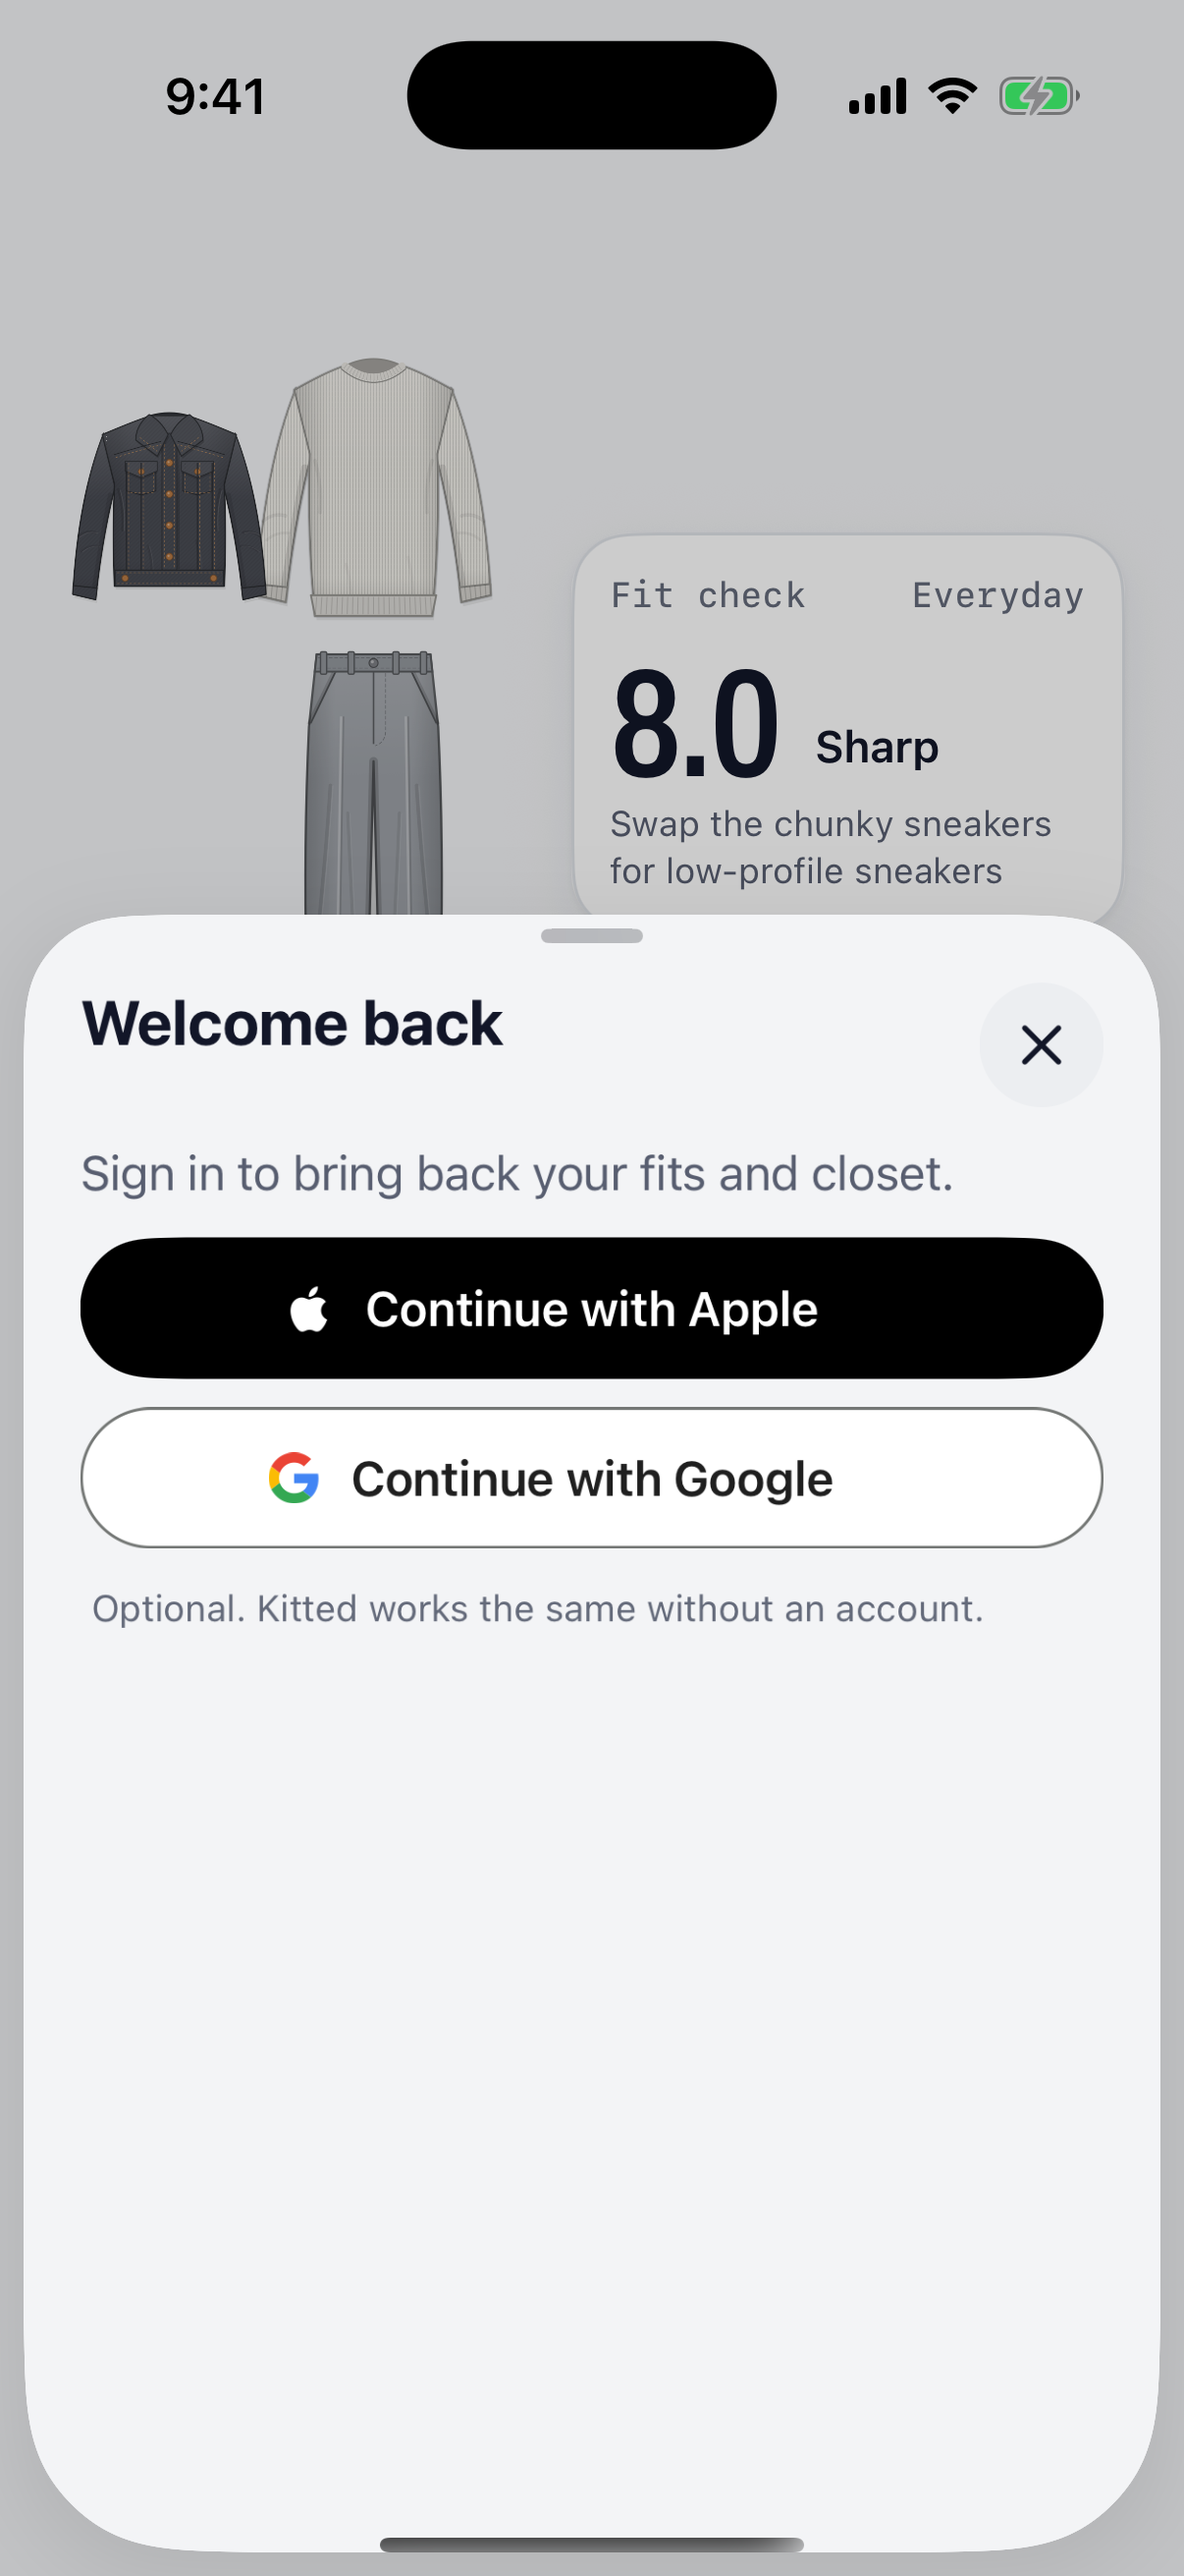
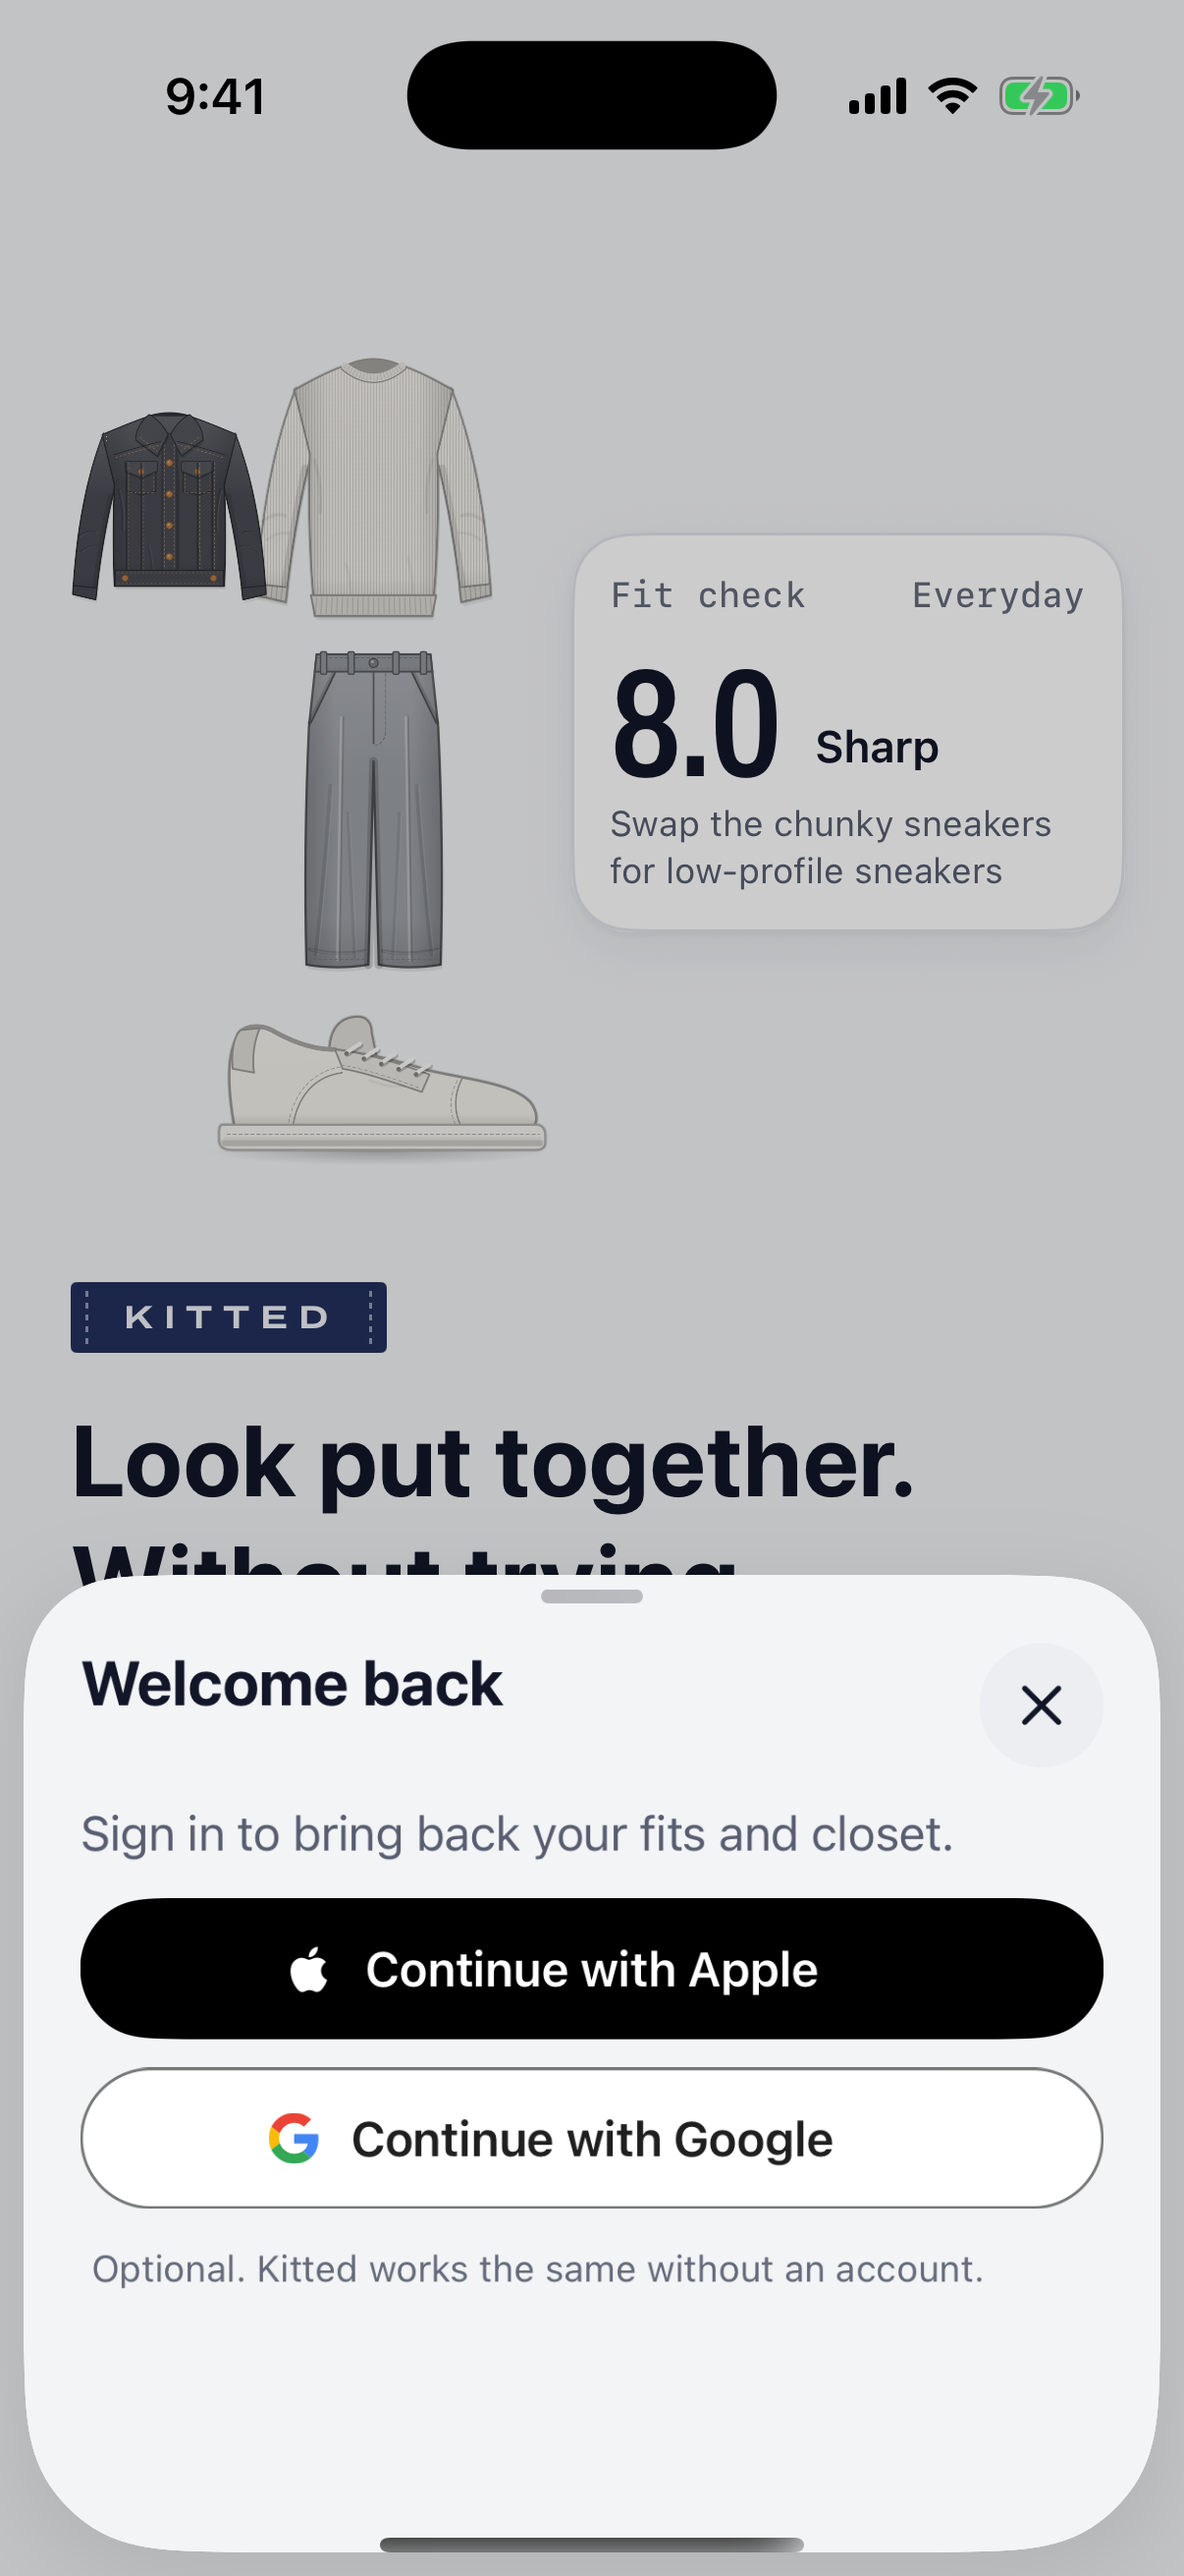
T41: sign-in sheet fits its content (0.4), new light shots, task notes

diff --git a/app/src/app/_layout.tsx b/app/src/app/_layout.tsx
@@ -135,8 +135,8 @@ function RootStack({ booted }: { booted: boolean }) {
         <Stack.Screen name="sheets/sample-photos" options={sheet([0.6, 1])} />
         <Stack.Screen name="sheets/scan-inbox" options={sheet([0.6, 1])} />
         <Stack.Screen name="sheets/merge/[id]" options={sheet([0.6, 1])} />
-        {/* A1 (10-onboarding.md): 0.7 leaves room for the email field and its button above the keyboard. */}
-        <Stack.Screen name="sheets/sign-in" options={sheet([0.45, 1])} />
+        {/* A1 (SB2): 0.4 fits the title, body, two buttons and the fine print (it was 0.7 for the email field, now gone); a message line or larger text scrolls, or pulls up to 1. */}
+        <Stack.Screen name="sheets/sign-in" options={sheet([0.4, 1])} />
       </Stack.Protected>
       <Stack.Protected guard={ready && !blocked && paywall}>
         <Stack.Screen name="paywall" options={cover} />

diff --git a/tasks/T41/TASK.md b/tasks/T41/TASK.md
@@ -31,8 +31,9 @@
 **Not done:** no Simulator run, no screenshots (the memory limit); restore from the server and `inAccount` ids come with T41b (the choice treats the account as holding none of this iPhone's fits until then); `deleteAccount` is as on main (no Apple revoke); `expo-apple-authentication` is not installed, so a real Apple sign-in needs the founder's `npm install` and a native rebuild; `RestoreScreen` still saves `consent: false` (not `'later'`) because `stepFourBatch.test.ts` checks the source for it, which means a restored phone gets the "turn on fit checks" card as before; `ACCOUNTS_BUILT` stays false.
 
 - **Full check (session, once):** `tsc`, core typecheck, `expo lint`, core tests and jest (`--maxWorkers=2`): 177 of 178 suites passed on the first run; the one failure (`syncSchema` S5/S6: `appleName.ts` wrote the About draft with an unclassified key name) was fixed by writing it through `saveAbout`, and `syncSchema` plus the T41 account tests pass again. Not re-run in full after that one-line fix.
-- **Screenshots** (light, iPhone 17 Pro Simulator, Metro from this worktree, demo screens): `tasks/T41/shots/01-signin-welcome-light.png` (132), `02-save-card-light.png` (138), `03-save-card-notnow-light.png` (139), `04-restore-age-light.png` (136), `06-you-signedout-light.png` (141), `07-you-signedin-light.png` (142), `08-both-have-fits-light.png` (140). Not captured: `Bringing back your fits…` (137) is on screen about 3 seconds; dark and largest-text shots; the real Apple and Google sheets.
-- **Local setup notes:** `expo-apple-authentication` is in `app.config.ts` plugins and `package.json` but not installed, so `expo start` fails with "Failed to resolve plugin" until the founder runs `npm install`; for the shots I removed that one line temporarily (reverted, not committed).
+- **Screenshots** (light, iPhone 17 Pro Simulator, Metro from this worktree, demo screens): `tasks/T41/shots/01-signin-welcome-light.png` (132), `02-save-card-light.png` (138), `03-save-card-notnow-light.png` (139), `04-restore-age-light.png` (136), `06-you-signedout-light.png` (141), `07-you-signedin-light.png` (142), `08-both-have-fits-light.png` (140); after the founder's "shrink to fit" (sheet detents `[0.4, 1]` instead of `[0.7, 1]`, the same scaffold for all three entry points): `01-signin-welcome-light.png` (132, retaken), `10-signin-from-card-light.png` (134), `11-signin-from-you-light.png` (135). Not captured: `Bringing back your fits…` (137) is on screen about 3 seconds; dark and largest-text shots; the real Apple and Google sheets.
+- **Local setup notes:** `expo-apple-authentication` is in `app.config.ts` plugins and `package.json` but not installed, so `expo start` fails with "Failed to resolve plugin" until the founder runs `npm install`; for the shots I removed that one line temporarily (reverted, not committed). **Metro note:** Metro run from this worktree through the symlinked `node_modules` did not pick up edits until restarted with `--clear`; check a shot really shows the new code.
+- **Founder's answers, Nov 19:** install `expo-apple-authentication` (done: the tarball's hash matched the lockfile's, added only that package folder to the shared `node_modules`; `expo config` resolves the plugin and shows the Sign in with Apple entitlement); keep both open wordings (log #520); the sheet shrinks to fit.
 
 ## Disputes
 No locked test is wrong. Two older tests outside the lock pin things the spec's wording touches, so I built around them without editing them (the founder or the test writer can decide to update them):
